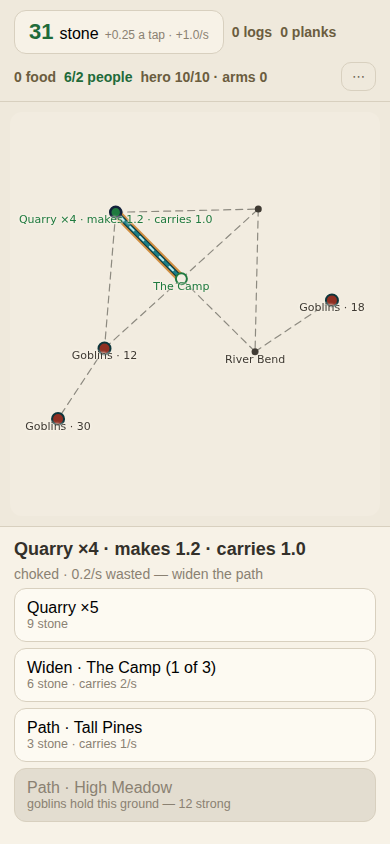
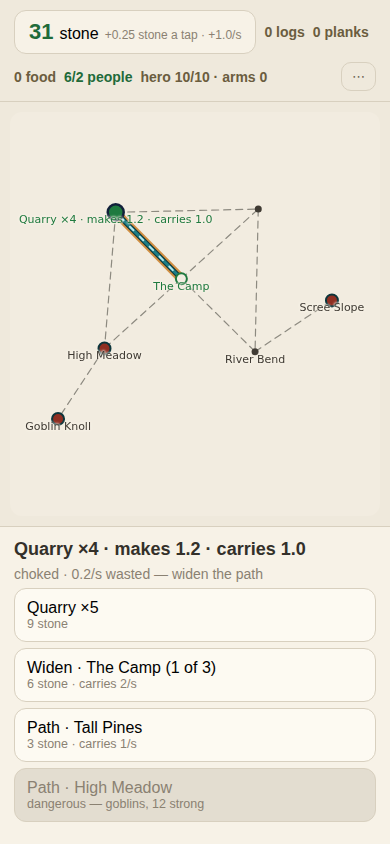
The ten-point playtest, first half: the fields eat first, paths come first
The owner's playtest found ten things; the comprehension and correctness
half ships today, the look-and-routing half is queued as its own work.

- ★★ THE FIELDS EAT FIRST. "i reached starving state and i don't
  understand why and how to fix it, building more farms didn't help" -
  and they were right: staffing spread people over ALL jobs, so idle
  quarry jobs diluted the farms' hands and a new farm barely fed anyone.
  People now fill the farms WHOLE before staffing anything else - another
  farm in a famine always means more bread. The camp panel also prices
  it plainly: "eats 0.3/s - fields bring 0.25/s - raise or connect farms".
- ★ THE PATH COMES FIRST: no works on ground the town cannot reach
  ("weird that i can build something before there's a path to that spot").
  The refusal is on the deed: "no path reaches here".
- ★ PRICES IN THE RIGHT MATERIAL: lumber camp costs LOGS (chop the first
  by hand - the tap follows the tapped site: pines chop logs), hut costs
  planks, mill costs stone AND logs, fields cost stone. "weird that i
  need stone to build lumberjack camp" - not any more.
- ★ HELD GROUND KEEPS ITS NAME: "High Meadow" with a red mark, and
  "dangerous - goblins, 12 strong" in the panel - not a dot renamed
  Goblins.
- ★ THE PICKED SITE IS UNMISSABLE - half again the size.

Queued in NEXT.md as their own sessions, per the same playtest: the map
background's return, carrier dots hauling along paths (the mana-dash
[…]

diff --git a/src/camp/engine.ts b/src/camp/engine.ts
@@ -150,14 +150,41 @@ export const HUT_ROOM = 2;
 /** Seconds to grow one person when there is room. */
 export const GROW_SECS = 12;
 
-/** First copy's price. Huts price in PLANKS — the sink the mill feeds. */
-export const BASE: Record<Kind, number> = { hut: 6, quarry: 5, lumber: 10, sawmill: 18, farm: 12 };
+/** ★ First copy's price, IN THE MATERIAL THAT MAKES SENSE — the owner:
+ *  *"it's weird that i need stone to build lumberjack camp."* Huts are
+ *  planks, a lumber camp is logs (chop the first by hand — the tap
+ *  follows the tapped site), the mill is both, fields are stone walls. */
+export type Price = { stone?: number; logs?: number; planks?: number };
+export const BASE: Record<Kind, Price> = {
+  hut: { planks: 6 },
+  quarry: { stone: 5 },
+  lumber: { logs: 8 },
+  sawmill: { stone: 8, logs: 12 },
+  farm: { stone: 12 },
+};
 export const PATH_COST = 3;
 
-/** ★ THE CURVE: the n-th copy (0-based count today) costs base × 1.15^n,
- *  rounded up. The genre's compounding, one line long. */
-export const costOf = (kind: Kind, have: number): number =>
-  Math.ceil(BASE[kind] * Math.pow(1.15, have));
+/** ★ THE CURVE: the n-th copy costs base × 1.15^n, every part, rounded
+ *  up. The genre's compounding, one line long. */
+export const costOf = (kind: Kind, have: number): Price => {
+  const out: Price = {};
+  for (const [k, v] of Object.entries(BASE[kind]) as [keyof Price, number][]) {
+    out[k] = Math.ceil(v * Math.pow(1.15, have));
+  }
+  return out;
+};
+
+/** A price as one honest string: "8 stone · 12 logs". */
+export const priceLine = (p: Price): string =>
+  (Object.entries(p) as [string, number][]).map(([k, v]) => `${v} ${k}`).join(' · ');
+
+/** What the price finds short, or null when it is covered. */
+export const shortOf = (g: City, p: Price): string | null => {
+  for (const [k, v] of Object.entries(p) as [keyof Price, number][]) {
+    if ((g[k] ?? 0) < v!) return `${v} ${k} — you have ${Math.floor(g[k])}`;
+  }
+  return null;
+};
 
 /** Widening: the next gauge costs the path price over again, times gauge. */
 export const pathCostOf = (gauge: number): number => PATH_COST * (gauge + 1);
@@ -245,18 +272,30 @@ export function flow(g: City): Flow {
       : s.allows === 'farm' ? RATE.farm : RATE.sawmill;
     made.set(id, n * base);
   }
-  const staff = jobs > 0 ? Math.min(1, g.pop / jobs) : 1;
+  // ★★ THE FIELDS EAT FIRST — staffing priority, 2026-08-08, from the
+  // owner's playtest: *"i reached starving state… building more farms
+  // didn't help."* It didn't, because every idle quarry job was diluting
+  // the farm's share of hands. Now people fill the FARMS first, whole,
+  // and whatever is left staffs the rest — so another farm always means
+  // more bread, exactly what a player reaches for in a famine.
+  let farmJobs = 0;
+  for (const id of comp) {
+    if (SITE.get(id)!.allows === 'farm') farmJobs += g.stacks[id] ?? 0;
+  }
+  const farmStaff = farmJobs > 0 ? Math.min(1, g.pop / farmJobs) : 1;
+  const rest = jobs - farmJobs;
+  const staff = rest > 0 ? Math.min(1, Math.max(0, g.pop - farmJobs) / rest) : 1;
+  let farmRaw = 0;
+  for (const [id, m] of made) {
+    if (SITE.get(id)!.allows === 'farm') farmRaw += m * farmStaff;
+  }
   // ★ STARVING: the larder is empty and the fields alone cannot keep up.
   // Everyone but the farmers stands down — and BECAUSE the farms keep
   // their hands, a famine is always recoverable, never a spiral.
-  let farmRaw = 0;
-  for (const [id, m] of made) {
-    if (SITE.get(id)!.allows === 'farm') farmRaw += m * staff;
-  }
   const starving = g.food <= 0.001 && hunger(g) > farmRaw + 1e-9;
   for (const [id, m] of made) {
     const isFarm = SITE.get(id)!.allows === 'farm';
-    made.set(id, m * staff * (starving && !isFarm ? 0 : 1));
+    made.set(id, isFarm ? m * farmStaff : m * staff * (starving ? 0 : 1));
   }
 
   // Load every edge with the producers routed over it, then scale each
@@ -308,15 +347,12 @@ export function flow(g: City): Flow {
 export function unraisable(g: City, id: number): string | null {
   const s = SITE.get(id);
   if (!s) return 'no such ground';
-  if (g.goblins[id]) return `goblins hold this ground — ${g.goblins[id]} strong`;
-  const have = g.stacks[id] ?? 0;
-  const price = costOf(s.allows, have);
-  if (s.allows === 'hut') {
-    if (g.planks < price) return `${price} planks — you have ${Math.floor(g.planks)}`;
-    return null;
-  }
-  if (g.stone < price) return `${price} stone — you have ${Math.floor(g.stone)}`;
-  return null;
+  if (g.goblins[id]) return `dangerous — goblins, ${g.goblins[id]} strong`;
+  // ★ THE PATH COMES FIRST — the owner: *"it's weird that i can build
+  // something before there's a path to that spot."* No works on ground
+  // the town cannot reach.
+  if (id !== 0 && !component(g).has(id)) return 'no path reaches here';
+  return shortOf(g, costOf(s.allows, g.stacks[id] ?? 0));
 }
 
 /** Why this path cannot be laid or widened, in plain words, or null. */
@@ -325,7 +361,7 @@ export function unlayable(g: City, a: number, b: number): string | null {
   const B = SITE.get(b);
   if (!A || !B || !A.near.includes(b)) return 'nothing joins these';
   if (g.goblins[a] || g.goblins[b]) {
-    return `goblins hold this ground — ${g.goblins[a] ?? g.goblins[b]} strong`;
+    return `dangerous — goblins, ${g.goblins[a] ?? g.goblins[b]} strong`;
   }
   const gauge = g.paths[pathKey(a, b)] ?? 0;
   if (gauge >= MAX_GAUGE) return 'as wide as it goes';
@@ -348,8 +384,9 @@ export function unassailable(g: City, id: number): string | null {
 
 export type Action =
   | { type: 'tick'; secs: number }
-  /** Chip stone by hand — the thumb's own quarry, and the bootstrap. */
-  | { type: 'tap' }
+  /** Work by hand where you stand looking — stone off the rocks, logs off
+   *  the pines. The thumb follows the tapped site; the shell says which. */
+  | { type: 'tap'; kind?: 'stone' | 'logs' }
   /** Lay the path between neighbours, or widen it a gauge. */
   | { type: 'lay'; a: number; b: number }
   /** Raise the NEXT copy of this site's works (a hut, at the camp). */
@@ -409,7 +446,9 @@ export function apply(g: City, a: Action): City {
     }
 
     case 'tap':
-      return { ...g, stone: g.stone + TAP_STONE };
+      return a.kind === 'logs'
+        ? { ...g, logs: g.logs + TAP_STONE }
+        : { ...g, stone: g.stone + TAP_STONE };
 
     case 'lay': {
       if (unlayable(g, a.a, a.b)) return g;
@@ -473,8 +512,9 @@ export function apply(g: City, a: Action): City {
       const price = costOf(s.allows, have);
       return {
         ...g,
-        stone: s.allows === 'hut' ? g.stone : g.stone - price,
-        planks: s.allows === 'hut' ? g.planks - price : g.planks,
+        stone: g.stone - (price.stone ?? 0),
+        logs: g.logs - (price.logs ?? 0),
+        planks: g.planks - (price.planks ?? 0),
         stacks: { ...g.stacks, [a.id]: have + 1 },
       };
     }

diff --git a/test/campbuilder.test.ts b/test/campbuilder.test.ts
@@ -29,18 +29,27 @@ const chain = (pop = 99): City => ({
 });
 
 describe('★★ RULE 1 — buildings come in counts, on the compounding curve', () => {
-  it('the n-th copy costs base × 1.15^n, rounded up', () => {
-    expect(costOf('quarry', 0)).toBe(BASE.quarry);
-    expect(costOf('quarry', 1)).toBe(Math.ceil(BASE.quarry * 1.15));
-    expect(costOf('quarry', 5)).toBe(Math.ceil(BASE.quarry * 1.15 ** 5));
+  it('the n-th copy costs base × 1.15^n, rounded up, in the RIGHT material', () => {
+    expect(costOf('quarry', 0).stone).toBe(BASE.quarry.stone);
+    expect(costOf('quarry', 1).stone).toBe(Math.ceil(BASE.quarry.stone! * 1.15));
+    expect(costOf('quarry', 5).stone).toBe(Math.ceil(BASE.quarry.stone! * 1.15 ** 5));
+    // The owner: "it's weird that i need stone to build lumberjack camp."
+    expect(BASE.lumber.stone).toBeUndefined();
+    expect(BASE.lumber.logs).toBeGreaterThan(0);
+    expect(BASE.hut.planks).toBeGreaterThan(0);
   });
 
-  it('raising stacks the count and pays the curve', () => {
-    let g: City = { ...initial(), stone: 99 };
+  it('raising stacks the count and pays every part of the curve', () => {
+    let g: City = { ...initial(), stone: 99, paths: { [pathKey(0, 1)]: 1 } };
     g = apply(g, { type: 'raise', id: 1 });
     g = apply(g, { type: 'raise', id: 1 });
     expect(g.stacks[1]).toBe(2);
-    expect(g.stone).toBeCloseTo(99 - costOf('quarry', 0) - costOf('quarry', 1), 9);
+    expect(g.stone).toBeCloseTo(99 - costOf('quarry', 0).stone! - costOf('quarry', 1).stone!, 9);
+  });
+
+  it('★ hand-taps follow the ground: logs off the pines', () => {
+    expect(apply(initial(), { type: 'tap', kind: 'logs' }).logs).toBeCloseTo(TAP_STONE, 9);
+    expect(apply(initial(), { type: 'tap' }).stone).toBeCloseTo(TAP_STONE, 9);
   });
 
   it('three copies make three times the stone', () => {
@@ -67,11 +76,30 @@ describe('★★ RULE 2 — people are the multiplier, and the ladder', () => {
     expect(flow(g).stone).toBeCloseTo(4 * RATE.quarry * 0.5, 9);
   });
 
+  it('★★ THE FIELDS EAT FIRST: hands fill the farms before anything else', () => {
+    // 3 people, 2 farm jobs + 4 quarry jobs: the farms run WHOLE (2 hands)
+    // and the quarries split the one that is left. Building another farm
+    // in a famine now always adds bread — the owner's exact complaint.
+    const g: City = { ...initial(), pop: 3, food: 999, goblins: {},
+      stacks: { 1: 4, 4: 2 },
+      paths: { [pathKey(0, 1)]: 3, [pathKey(0, 4)]: 3 } };
+    const f = flow(g);
+    expect(f.food).toBeCloseTo(2 * RATE.farm, 9);
+    expect(f.stone).toBeCloseTo(4 * RATE.quarry * (1 / 4), 9);
+  });
+
   it('★ huts cost PLANKS — the mill chain is the sink', () => {
     expect(unraisable({ ...initial(), stone: 99 }, 0)).toMatch(/planks/);
     const g = apply({ ...initial(), planks: 9 }, { type: 'raise', id: 0 });
     expect(g.stacks[0]).toBe(1);
-    expect(g.planks).toBeCloseTo(9 - BASE.hut, 9);
+    expect(g.planks).toBeCloseTo(9 - BASE.hut.planks!, 9);
+  });
+
+  it('★ no works before a path reaches the ground', () => {
+    // The owner: "it's weird that i can build something before there's a
+    // path to that spot." The camp itself is the one exception.
+    expect(unraisable({ ...initial(), stone: 99 }, 1)).toBe('no path reaches here');
+    expect(unraisable({ ...initial(), planks: 99 }, 0)).toBeNull();
   });
 
   it('★ the whole wilderness shows from the first frame — held ground is the carrot', () => {
@@ -154,12 +182,13 @@ describe('★ honest refusals and the save', () => {
     expect(apply(initial(), { type: 'tap' }).stone).toBeCloseTo(TAP_STONE, 9);
   });
 
-  it('refusals say why: price, goblins, reach', () => {
-    expect(unraisable(initial(), 1)).toMatch(/^5 stone — you have 0/);
-    expect(unraisable(initial(), 4)).toMatch(/^goblins hold this ground — 12/);
+  it('refusals say why: price, danger, reach', () => {
+    expect(unraisable({ ...initial(), paths: { [pathKey(0, 1)]: 1 } }, 1))
+      .toMatch(/^5 stone — you have 0/);
+    expect(unraisable(initial(), 4)).toMatch(/^dangerous — goblins, 12 strong/);
     expect(unlayable(initial(), 1, 3)).toBe('nothing joins these');
     expect(unlayable({ ...initial(), stone: 99 }, 1, 2)).toBe('no path reaches either end');
-    expect(unlayable({ ...initial(), stone: 99 }, 3, 5)).toMatch(/^goblins hold this ground — 18/);
+    expect(unlayable({ ...initial(), stone: 99 }, 3, 5)).toMatch(/^dangerous — goblins, 18 strong/);
   });
 
   it('round-trips a real city and refuses the rest', () => {
@@ -250,7 +279,10 @@ describe('★★ THE HERO AND THE GOBLINS — Mayor of Noobtown, by the numbers'
     expect(g.goblins[4]).toBeUndefined();
     expect(g.fight).toBeNull();
     expect(g.pop).toBe(popBefore + CAPTIVES);
-    expect(unraisable({ ...g, stone: 99 }, 4)).toBeNull();
+    // The goblins are gone: what stands between the meadow and a farm now
+    // is only the ordinary path rule.
+    expect(unraisable({ ...g, stone: 99 }, 4)).toBe('no path reaches here');
+    expect(unraisable({ ...g, stone: 99, paths: { [pathKey(0, 4)]: 1 } }, 4)).toBeNull();
   });
 
   it('★★ arms turn the same fight: ×1 beats the meadow whole', () => {

diff --git a/src/ui/Camp.svelte b/src/ui/Camp.svelte
@@ -6,8 +6,8 @@
   import { INK, TOL } from '../game/ink';
   import type { Box } from '../game/layout';
   import { apply, initial, flow, shown, popCap, pathKey, costOf, pathCostOf,
-    unlayable, unraisable, unassailable, heroHit, armsCost, hunger, SITE,
-    GOBLINS, RATE, TAP_STONE, MAX_GAUGE, HERO_HP, type City } from '../camp/engine';
+    priceLine, unlayable, unraisable, unassailable, heroHit, armsCost, hunger,
+    SITE, GOBLINS, RATE, TAP_STONE, MAX_GAUGE, HERO_HP, type City } from '../camp/engine';
   import { load, save, wipe, exportRaw, importRaw, elapsedSince } from '../camp/store';
 
   let game = $state<City>(initial());
@@ -20,6 +20,11 @@
   const act = (a: Parameters<typeof apply>[1]): void => { game = apply(game, a); };
 
   const f = $derived(flow(game));
+  /** ★ The thumb works what you are looking at: pines chop logs by hand,
+   *  everything else chips stone — the bootstrap for the logs-priced camp. */
+  const tapKind = $derived<'stone' | 'logs'>(
+    picked !== null && !game.goblins[picked]
+      && SITE.get(picked)?.allows === 'lumber' ? 'logs' : 'stone');
   const cap = $derived(popCap(game));
   /** Planks the mills can actually deliver right now: capacity, starved to
    *  the log supply when the pile is dry. The header never overpromises. */
@@ -34,7 +39,10 @@
   /** A site's label: the count, and the truth about what its paths carry. */
   function nameOf(id: number): string {
     const s = SITE.get(id)!;
-    if (game.goblins[id]) return `Goblins · ${game.goblins[id]}`;
+    // ★ Held ground keeps its NAME — the owner: *"this must be some
+    // location with a note that it's dangerous, not flat out goblins."*
+    // The red mark carries the danger; the panel carries the number.
+    if (game.goblins[id]) return s.name;
     const n = game.stacks[id] ?? 0;
     if (id === 0) return n > 0 ? `Camp · Hut ×${n}` : 'The Camp';
     if (n <= 0) return s.name;
@@ -60,6 +68,9 @@
     known: true,
     on: picked === s.id,
     barred: false,
+    // ★ The picked site is unmissable — the owner could not tell what
+    // was selected. Half again the size is a statement, not a hint.
+    r: picked === s.id ? 8 : undefined,
   })));
 
   const lines = $derived<Line[]>((() => {
@@ -117,7 +128,7 @@
     const why = unraisable(game, s.id);
     out.push({
       label: `${KIND_NAME[s.allows]} ×${have + 1}`,
-      note: why ?? `${costOf(s.allows, have)} ${s.allows === 'hut' ? 'planks' : 'stone'}`,
+      note: why ?? priceLine(costOf(s.allows, have)),
       why,
       go: () => act({ type: 'raise', id: s.id }),
     });
@@ -152,7 +163,13 @@
     if (picked === null) return '';
     if (picked === 0) {
       return `${Math.floor(game.pop)} of ${cap} people`
-        + (f.staff < 1 ? ` · works ${Math.round(f.staff * 100)}% staffed` : '');
+        + (hunger(game) > 0
+          ? ` · eats ${hunger(game).toFixed(1)}/s · fields bring ${f.food.toFixed(1)}/s` : '')
+        + (f.starving ? ' — raise or connect farms' : '')
+        + (f.staff < 1 && !f.starving ? ` · works ${Math.round(f.staff * 100)}% staffed` : '');
+    }
+    if (game.goblins[picked]) {
+      return `dangerous — goblins, ${game.goblins[picked]} strong`;
     }
     const n = game.stacks[picked] ?? 0;
     if (n <= 0) return '';
@@ -230,9 +247,9 @@
 
 <main>
   <header>
-    <button class="spring" onclick={() => act({ type: 'tap' })}>
+    <button class="spring" onclick={() => act({ type: 'tap', kind: tapKind })}>
       <b>{Math.floor(game.stone)}</b><span>stone</span>
-      <em>+{TAP_STONE} a tap{f.stone > 0 ? ` · +${f.stone.toFixed(1)}/s` : ''}</em>
+      <em>+{TAP_STONE} {tapKind} a tap{f.stone > 0 ? ` · +${f.stone.toFixed(1)}/s` : ''}</em>
     </button>
     <span class="keep">{Math.floor(game.logs)} logs</span>
     <span class="keep">{Math.floor(game.planks)} planks{planksNow > 0 ? ` +${planksNow.toFixed(1)}/s` : ''}</span>

diff --git a/docs/DECISIONS.md b/docs/DECISIONS.md
@@ -1835,3 +1835,4 @@ Entries above this line are long because the one-line rule did not exist yet.
 - 2026-08-08 — **THE HERO SLICE** (owner: *"very few people kind of game… low hundreds max… maybe we have a hero that's able to liberate some areas from goblins… let's steal some Mayor of Noobtown elements"*; battle form picked by chips: turn-based). Three grounds start GOBLIN-HELD (12/18/30 strong, drawn red with strength on the label); held ground takes no works and no paths. ONE hero: assail → deterministic turn fight (strike lands 2+arms, survivors bite back per-site 2/3/4; hp 10; at 0 the hero is beaten home and the ground KEEPS its wounds — a bled site stays bled). No dice ON PURPOSE: whether you can win was decided by the town that armed you — Arms ×n bought at the camp in stone+planks on a 1.25^n curve, the economy arming the fight loop exactly as CITY.md says. Healing 1hp/15s, never mid-fight. Liberated ground joins the buildable map — territory = fights won, replacing pop thresholds. Save v3 (v2 refused → reset, said plainly).
 - 2026-08-08 — **NO SHOULDER DEMON, ever.** Owner, verbatim: *"please no shoulder demon."* The Noobtown steals stay mechanical (goblin-held ground, hero liberation, captives-as-settlers pending); the companion-character bit is permanently off the table. Recorded so no future prose pass re-derives it.
 - 2026-08-08 — **SLICE 3: FOOD, FARMS, CAPTIVES** ("go go"). High Meadow (held 12) is now FARM ground — the first liberation is the food unlock. The wild feeds six free (WILD_FED); every settler past that eats 0.1/s from the larder. STARVING (empty larder, hunger past the fields) halts every works EXCEPT the farms — famines recover, never spiral — and settlers refuse to move in past the wild's table without bread banked. Liberations free 2 CAPTIVES who arrive instantly and hungry (Noobtown's actual spine, verified against the source). Bug found by the tests: hand-typed site adjacency was one-way (camp never listed the meadow back) — neighbouring is now symmetrized at module init, same fix the old map used. Save v4.
+- 2026-08-08 — **THE TEN-POINT PLAYTEST, first half shipped same day.** Fixed now: (1) THE FIELDS EAT FIRST — staffing fills farms whole before anything else; the owner built farms in a famine and they didn't help because idle quarry jobs were diluting the farm's hands. (2) No works before a path reaches the ground ("weird that i can build something before there's a path"). (3) Prices in the material that makes sense — lumber camp costs LOGS, hut planks, mill stone+logs; the tap follows the tapped site (pines chop logs by hand = the bootstrap). (4) Held ground keeps its NAME; the danger is a red mark + "dangerous — goblins, N strong" in the panel. (5) Selection is half again the size. (6) The camp panel prices the hunger next to the fields' bring — starving is explained where you look. QUEUED as their own sessions, owner's order kept on record: the map background returns; CARRIER DOTS hauling resources along paths replace the mana-dash crawl (mana crawl code KEPT on disk, owner's instruction); a reason to mesh sites to each other, not just the camp (real commodity routing: logs travel to the mill); +1 pops; assigning people to buildings by hand.

diff --git a/docs/NEXT.md b/docs/NEXT.md
@@ -1069,12 +1069,16 @@ liberation fights, Arms ×n from the town's own stores, territory = fights won.
 priced on the header, STARVING halts all but the farms, and every
 liberation frees two hungry captives.
 
-**Next, one per session, each after the owner plays:**
-1. A second region BEYOND the knoll — deeper goblins, the map growing
-   outward; maybe the hero levels (hp, not just arms).
-2. The away line + pacing pass (chad-liquidity across stone/planks/arms/food).
-3. Storage caps? gold? the next Kittens rung — owner's pick.
-4. Naming/prose pass — the owner's, only when the loop proves out.
+**Next, one per session — the owner's ten-point playtest drives the order:**
+1. ★ THE LOOK: the old map background returns (terrain decor into Camp's
+   Board), CARRIER DOTS hauling along paths instead of the mana dash
+   (keep the dash code on disk — owner's instruction), +1 pops on gains.
+2. ★ MESH ROUTING: logs travel to the MILL, not the abstract depot — a
+   real reason to connect site to site instead of star-to-camp.
+3. Assign people to buildings by hand (the owner asked; auto stays the
+   default so nothing babysits).
+4. Second region past the knoll; the away line; pacing pass.
+5. Naming/prose pass — the owner's, only when the loop proves out.
 
 ## ★★★★ (superseded same night) THE CAMP BUILDER — slice 1 of the pivot
 
